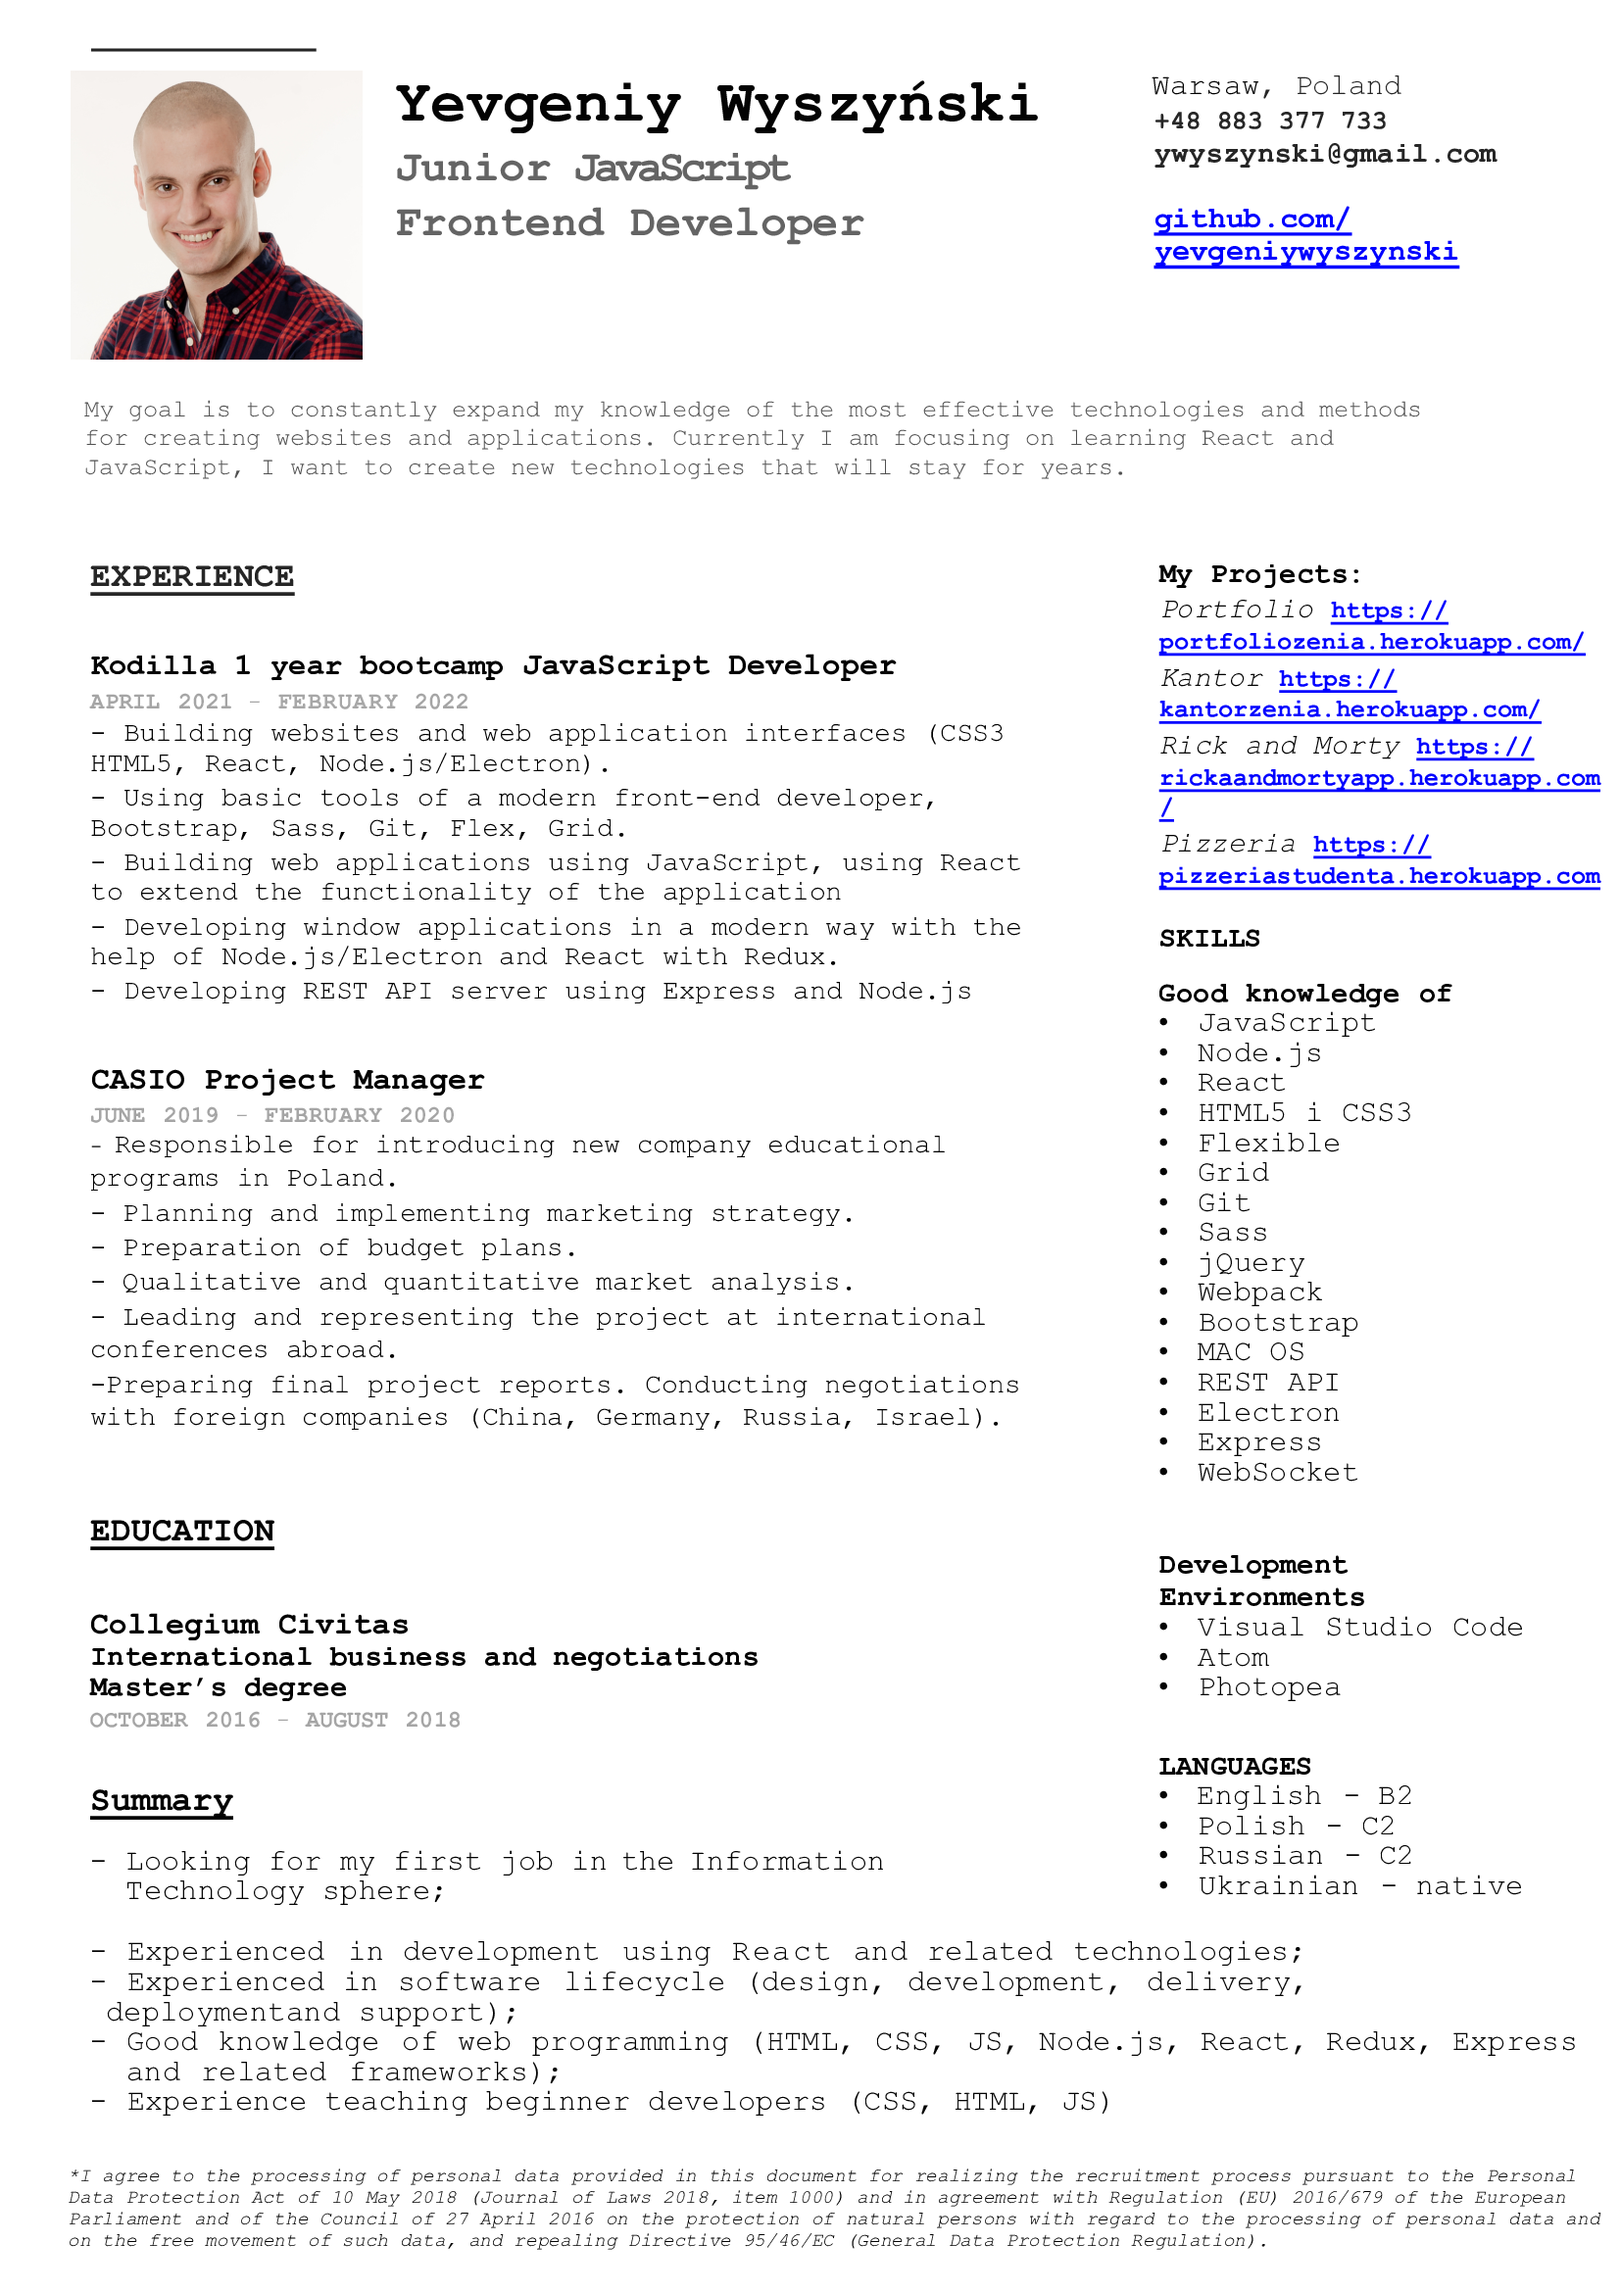
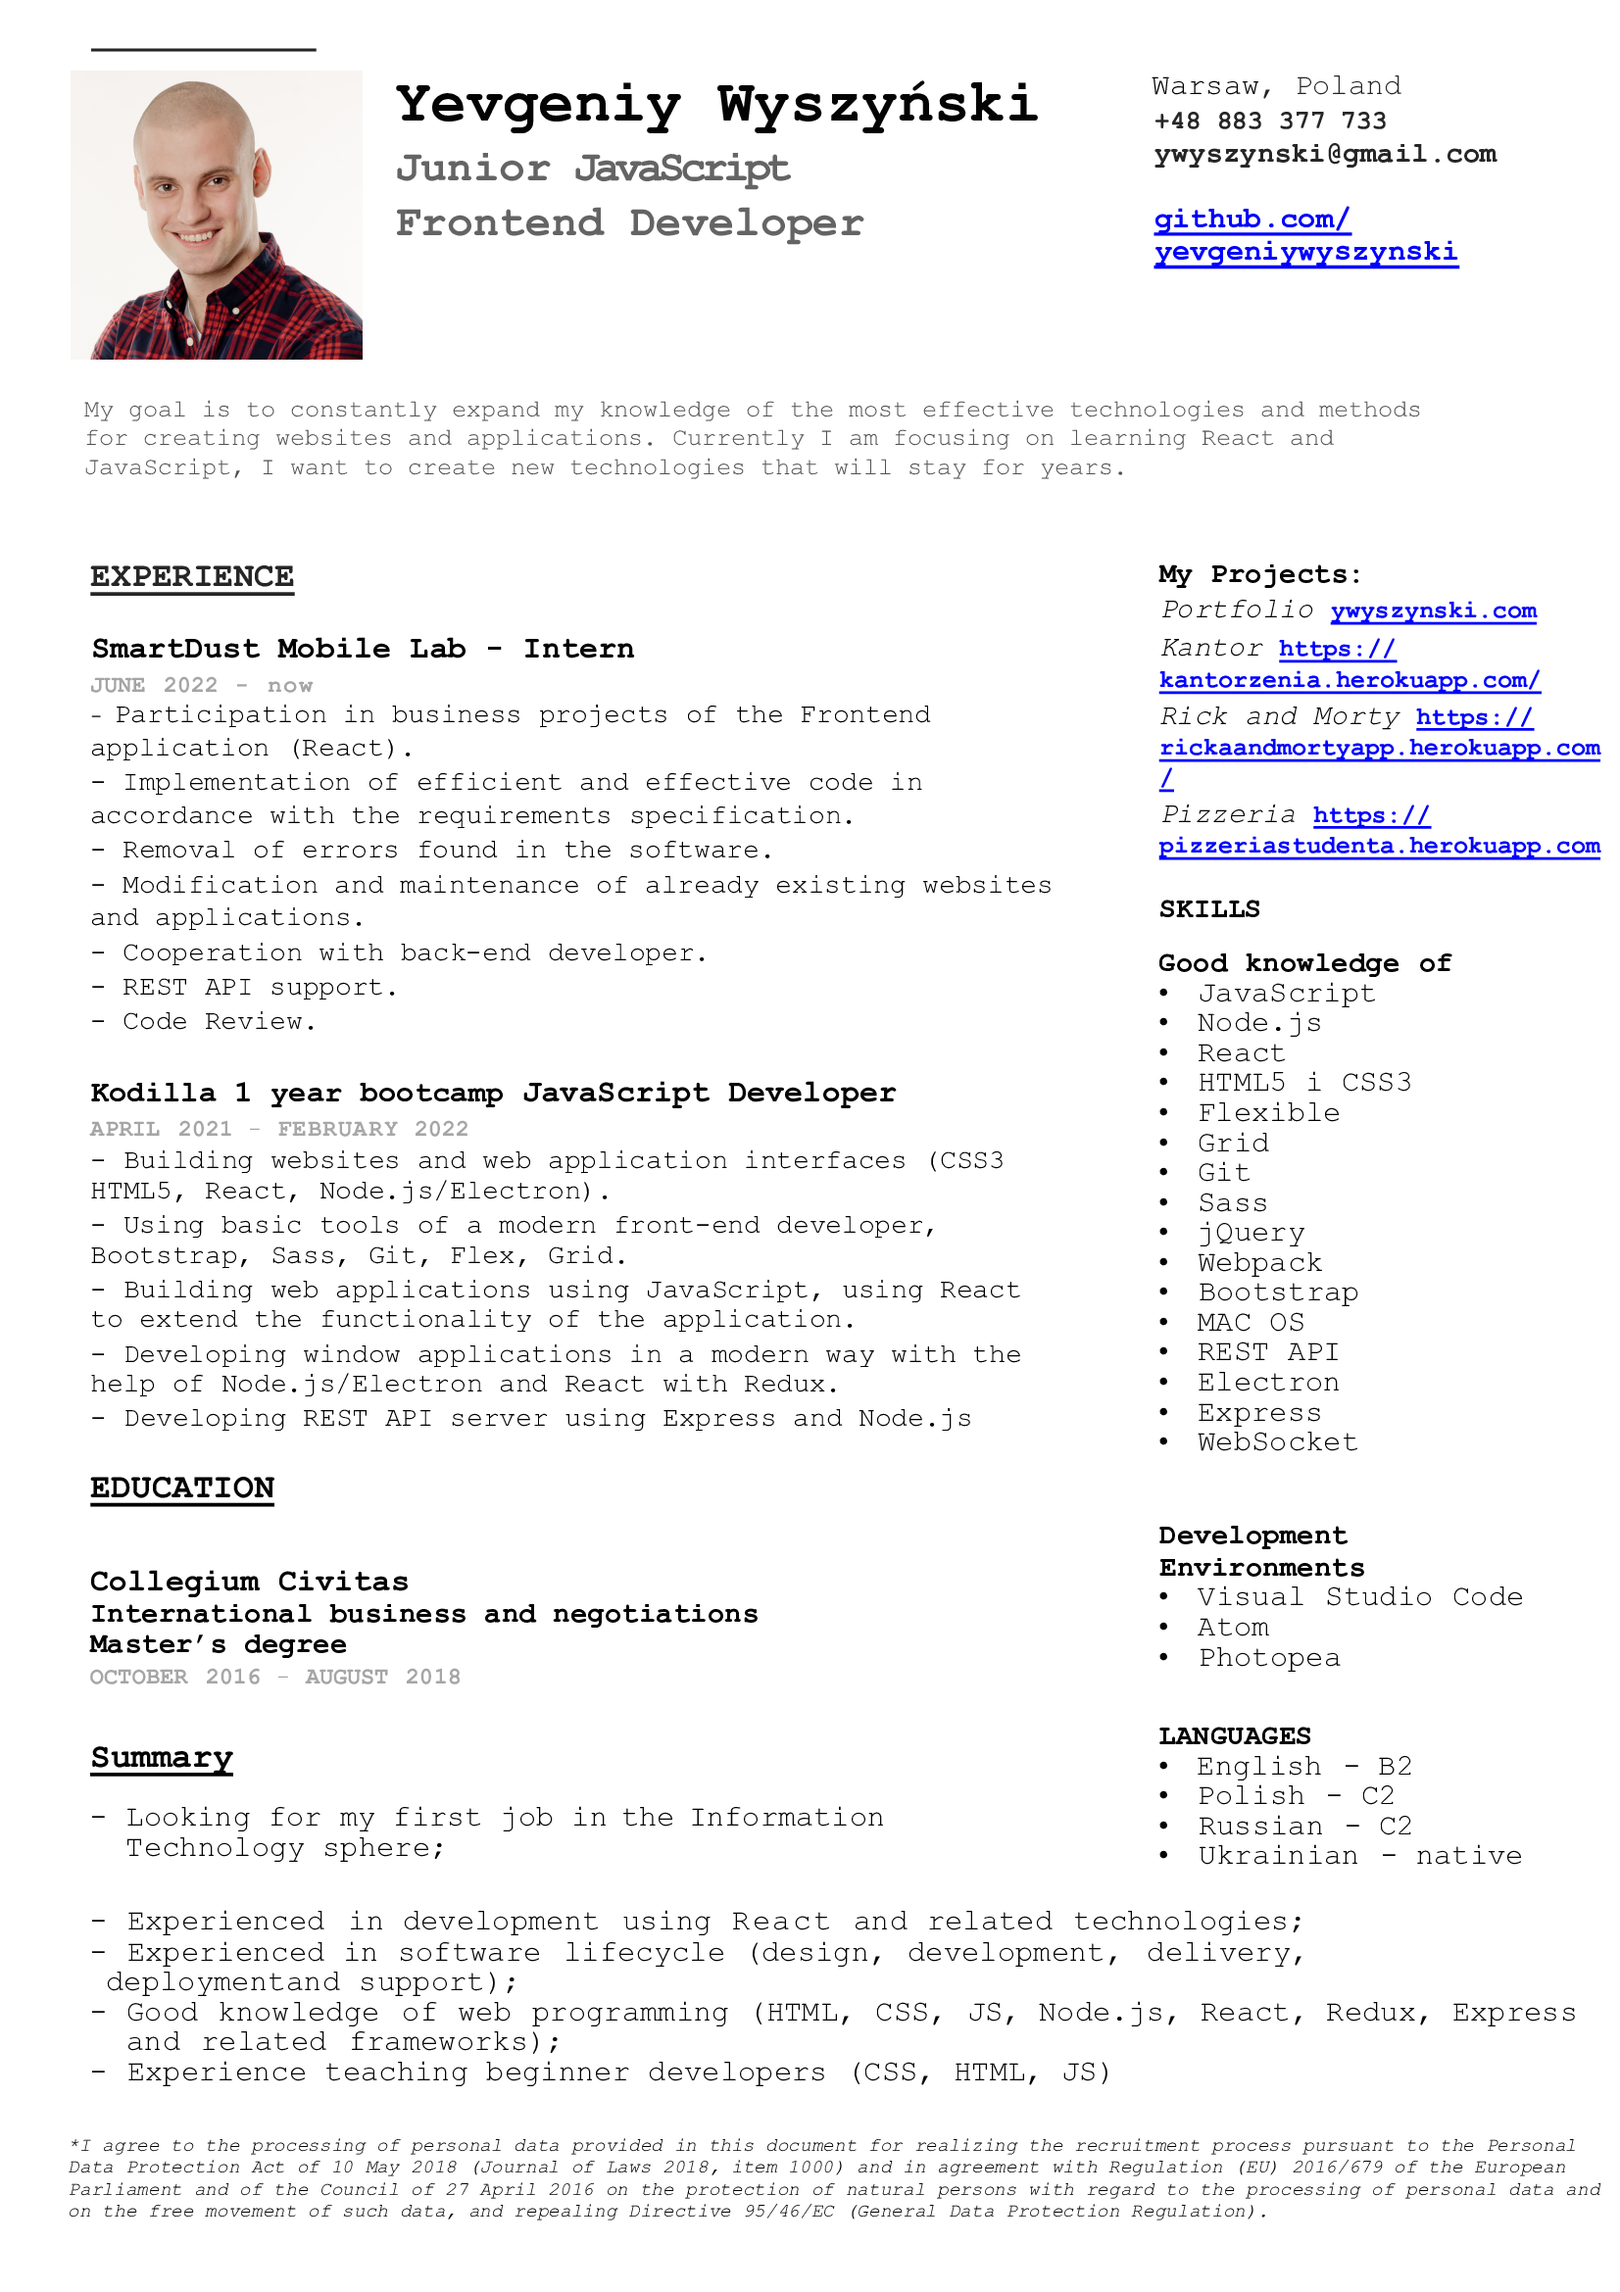
Add new cv, and added new position in experience comp

diff --git a/src/components/about/Experience.jsx b/src/components/about/Experience.jsx
@@ -2,7 +2,15 @@ import React from "react";
 
 const experienceContent = [
   {
-    year: "  2021 - 2022",
+    year: "2022 - now",
+    position: "Intern",
+    compnayName: "SmartDust Mobile Lab",
+    details: `Participation in business projects of the Frontend application (React).
+    Implementation of efficient and effective code in accordance with the requirements specification. Removal of errors found in the software. 
+    Modification and maintenance of already existing websites and applications. Cooperation with back-end developer.`
+  },
+  {
+    year: "2021 - 2022",
     position: "Bootcamp",
     compnayName: "Kodilla",
     details: `Building websites and web application interfaces (CSS3 HTML5, React, Node.js/Electron).

diff --git a/src/components/Address.jsx b/src/components/Address.jsx
@@ -13,7 +13,7 @@ const Address = () => {
       <p className="open-sans-font custom-span-contact position-relative">
         <i className="fa fa-envelope-open position-absolute"></i>
         <span className="d-block">mail me</span>{" "}
-        <a href="mailto:steve@mail.com">ywyszynski@gmail.com</a>
+        <a href="mailto:ywyszynski@gmail.com">ywyszynski@gmail.com</a>
       </p>
       {/* End .custom-span-contact */}
 
